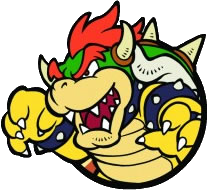
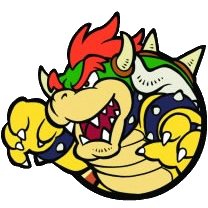
a whole lot of sprite stuff

diff --git a/assets/javascript/game.js b/assets/javascript/game.js
@@ -91,7 +91,7 @@ function attack(x, y) {
         $("#enemy-atk").text(player.attack);
 
     }
-
+    
 };
 
 function block(x) {
@@ -163,6 +163,10 @@ function turnEnd(x, y) {
         $("#player-hp").html("<i class='fas fa-skull'></i>")
         $("#instructions").text("GAME OVER!")
 
+        if (player.name = "Mario") {
+            $("#player_sprite").html("<img src='assets/images/mariodead.gif'>");
+        }
+
     }
 
     if (enemy.hp <= 0) {
@@ -172,6 +176,10 @@ function turnEnd(x, y) {
         $("#instructions").text("Select your opponent!")
         $("#enemy-hp").html("<i class='fas fa-skull'></i>")
         score++
+
+        if(enemy.name = "Mario") {
+            $("#enemy_sprite").html("<img src='assets/images/mariodead.gif'>");
+        }
     }
 
     if (score >= 3) {
@@ -235,6 +243,7 @@ $("#choice1").click(function(){
         $("#player-atk").text(" " + player.attack);
         $("#player-def").text(" " + player.defense);
         $("#playername").html(player.name);
+        $("#player_sprite").append("<img src=assets/images/marioidle.gif>")
         playerChoice = true;
         $("#choice1").toggle()
         $("#instructions").text("Select your opponent!")
@@ -248,6 +257,8 @@ $("#choice1").click(function(){
         $("#enemy-atk").text(" " + enemy.attack);
         $("#enemy-def").text(" " + enemy.defense);
         $("#enemyname").html(enemy.name);
+        $("#enemy_sprite").append("<img src=assets/images/marioidle.gif>")
+        $("#enemy_sprite").css('transform', 'scaleX(-1)');
         enemyChoice = true;
         $("#choice1").toggle()
         $("#instructions").text("Battle!")
@@ -263,6 +274,8 @@ $("#choice1").click(function(){
         $("#enemy-atk").text(" " + enemy.attack);
         $("#enemy-def").text(" " + enemy.defense);
         $("#enemyname").html(enemy.name);
+        $("#enemy_sprite").append("<img src=assets/images/marioidle.gif>")
+        $("#enemy_sprite").css('transform', 'scaleX(-1)');
         enemyChoice = true;
         $("#choice1").toggle()
         $("#instructions").text("Battle!")
@@ -295,6 +308,7 @@ $("#choice2").click(function(){
         for(var k in char_2) (enemy[k] = char_2[k])
         $("#enemyicon").attr("src", "assets/images/luigi.png");
         $("#enemyicon").css('visibility', 'visible');
+        $("#enemyicon").css('transform', 'scaleX(-1)');
         $("#enemy-hp").text(" " + enemy.hp);
         $("#enemy-atk").text(" " + enemy.attack);
         $("#enemy-def").text(" " + enemy.defense);
@@ -309,6 +323,7 @@ $("#choice2").click(function(){
     else if (enemyChoice && enemy.isLive != true) {
         for(var k in char_2) (enemy[k] = char_2[k])
         $("#enemyicon").attr("src", "assets/images/luigi.png");
+        $("#enemyicon").css('transform', 'scaleX(-1)');
         $("#enemy-hp").text(" " + enemy.hp);
         $("#enemy-atk").text(" " + enemy.attack);
         $("#enemy-def").text(" " + enemy.defense);
@@ -329,6 +344,7 @@ $("#choice3").click(function(){
         for(var k in char_3) (player[k] = char_3[k])
         $("#playericon").attr("src", "assets/images/peach.png");
         $("#playericon").css('visibility', 'visible');
+        $("#playericon").css('transform', 'scaleX(-1)');
         $("#player-hp").text(" " + player.hp);
         $("#player-atk").text(" " + player.attack);
         $("#player-def").text(" " + player.defense);
@@ -377,6 +393,7 @@ $("#choice4").click(function(){
         for(var k in char_4) (player[k] = char_4[k])
         $("#playericon").attr("src", "assets/images/bowser.png");
         $("#playericon").css('visibility', 'visible');
+        $("#playericon").css('transform', 'scaleX(-1)');
         $("#player-hp").text(" " + player.hp);
         $("#player-atk").text(" " + player.attack);
         $("#player-def").text(" " + player.defense);

diff --git a/assets/css/style.css b/assets/css/style.css
@@ -51,6 +51,8 @@ hr {
 #buttonspace {
     margin:10px;
     display:none;
+    position: relative;
+    top: 14px;
 }
 
 button {
@@ -63,6 +65,12 @@ button {
     font-variant:small-caps;
     height:45px;
     
+}
+
+button:hover {
+    border-color: darkred;
+    background-color:red;
+    color:cornsilk;    
 }
 
 #enemyspace {
@@ -78,7 +86,21 @@ button {
     background: rgba(10, 200, 0, 0.6); 
     font-variant: small-caps;
 
+}
 
+
+#player_sprite {
+    float:left;
+    position:absolute;
+    left: 25rem;
+    bottom: 25rem;
+}
+
+#enemy_sprite {
+    float:right;
+    position:absolute;
+    right: 25rem;
+    bottom: 25rem;
 }
 
 #actionspace {
@@ -91,6 +113,7 @@ button {
     text-shadow: .5px .5px 1px black;
     color: honeydew;
     font-weight:bolder;
+    text-align:center;
 
 }
 
@@ -109,21 +132,18 @@ button {
     border-color:teal;
     border-width:3px;
     background: rgba(120, 120, 200, 0.8); 
-
 }
 
 #instructions {
-    padding: 15px;
+    padding: 5px;
     text-shadow: .5px .5px 1px black;
-    color: white;
+    color: rgb(51, 255, 44);
     font-weight:bolder;
     font-variant: small-caps;
-    font-size:28px;
+    font-size:40px;
     -webkit-text-stroke-width: 1px;
-    -webkit-text-stroke-color: black;
-}
-#fighterspace {
-    padding:10px;
+    -webkit-text-stroke-color:black;
+    text-align:center;
 }
 
 #playericon {
@@ -138,15 +158,15 @@ button {
     margin:2px;
     position:absolute;
     right:0px;
-    width: 80px;
-    height: auto;
+    width: auto;
+    height: 80px;
     visibility: hidden;
 }
 
 #playername {
     float:right;
     padding: 10px;
-    font-size:200%;
+    font-size:40px;
     font-weight:bolder;
     text-shadow: .5px .5px 1px black;
     color: white;
@@ -157,7 +177,7 @@ button {
 #enemyname {
     padding: 10px;
     margin-bottom:50px;
-    font-size:200%;
+    font-size:40px;
     font-weight:bolder;
     text-shadow: .5px .5px 1px black;
     color: white;
@@ -165,8 +185,29 @@ button {
     -webkit-text-stroke-color: black;
 }
 
-
+#fighterspace {
+    margin-left:auto;
+    margin-right:auto;
+    width:45%;
+}
 
 body {
     font-family: 'Segoe UI', Tahoma, Geneva, Verdana, sans-serif
+}
+
+
+#choice1, #choice2, #choice3 {
+    width: 90px;
+    height: auto;
+    padding: 10px;
+    position: relative;
+    bottom: 10px;
+}
+
+#choice4 {
+    width: 110px;
+    height: auto;
+    padding: 10px;
+    position: relative;
+    bottom: 14px;
 }

diff --git a/index.html b/index.html
@@ -37,11 +37,27 @@
                         <button id="btn-buff"><i class="fas fa-angle-double-up"></i>Power-Up</button>
                         <button id="btn-blk"><i class="fas fa-shield-alt"></i>Block</button>
                     </section>
+
+
+                </div>
+
+
+
+            </div>
+
+            <div id="battlespace">
+
+                <div id="player_sprite">
+                    </div>
+
+                <div id="enemy_sprite">
                 </div>
 
             </div>
 
             <div id="enemyspace">
+
+
                     <section>
                         <img src="https://via.placeholder.com/80x80.png?text=Enemy" id="enemyicon">
                         <div id="enemyname"><h1></h1></div>
@@ -58,7 +74,7 @@
                         </div>
 
                     </div>
-        
+
                 </div>
 
             <div id="actionspace">
@@ -70,10 +86,10 @@
             <div id="choosespace"> <h1 id="instructions">Select your fighter!</h1>
                 <hr>
                 <div id="fighterspace">
-                    <img src="https://via.placeholder.com/80x80.png?text=Char+1" id="choice1"> 
-                    <img src="https://via.placeholder.com/80x80.png?text=Char+2" id="choice2"> 
-                    <img src="https://via.placeholder.com/80x80.png?text=Char+3" id="choice3"> 
-                    <img src="https://via.placeholder.com/80x80.png?text=Char+4" id="choice4">
+                    <img src="assets\images\mario.png" id="choice1" title="It's-a me!"> 
+                    <img src="assets\images\luigi.png" id="choice2" title="Let's-a go!"> 
+                    <img src="assets\images\peach.png" id="choice3" title="Peachy!"> 
+                    <img src="assets\images\bowser.png" id="choice4" title="Bwa ha ha ha!">
                 </div>
 
             </div>
